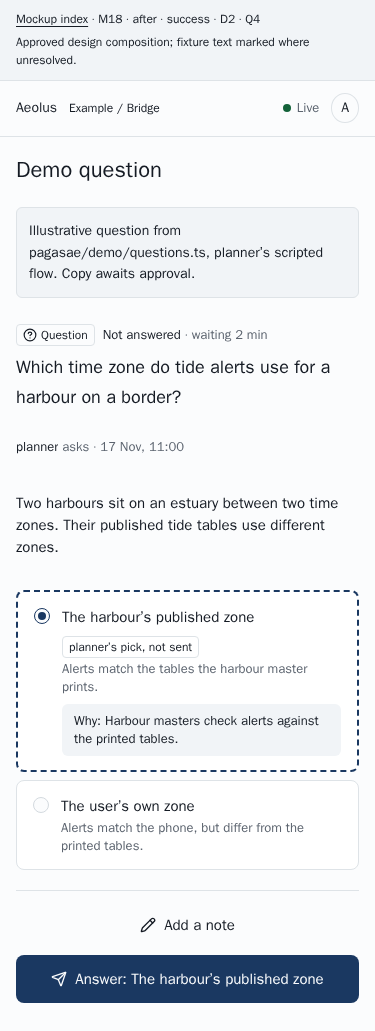
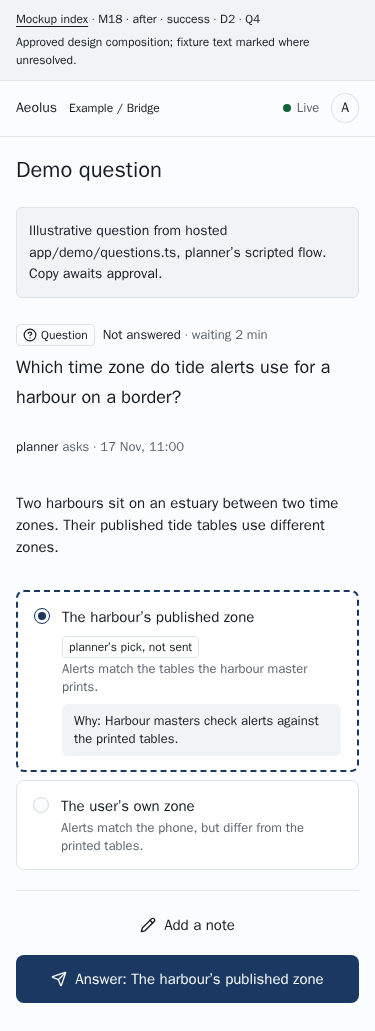
docs(onboarding): keep demo provenance generic in previews

Changed region(s): [[0.088, 0.2173, 0.8507, 0.2793]]

diff --git a/docs/design/hosted-onboarding/mockups/coverage.md b/docs/design/hosted-onboarding/mockups/coverage.md
@@ -44,7 +44,7 @@ Static documents, mail and the waiting-list notice have no runtime data empty/lo
 - Console chrome: `packages/console/components/organisms/{sidebar,top-bar,tab-bar}.tsx` with `packages/ui/src/organisms/app-header.tsx`, AppSwitcher and AvatarMenu. The console’s real brand assets are included.
 - Crew and source text: console `components/atoms/code-block.tsx`, `copy-button.tsx`, `components/molecules/crew-lines.tsx` and `live-status.tsx`.
 - Permissions: console `components/molecules/permission-choices.tsx`. Steering’s chosen rights are read, commission and manage, in addition to send/receive. This is a guide to manual commission, not a new preset.
-- Questions in M15 and M18: console `features/inbox/ui/organisms/question-reader.tsx`, with its existing desktop and phone variants. Q4 uses the planner’s time-zone question from [hosted app/demo/questions.ts](demo/questions.ts). Its answer and subsequent scripted report are illustrative. No new question interaction is designed here.
+- Questions in M15 and M18: console `features/inbox/ui/organisms/question-reader.tsx`, with its existing desktop and phone variants. Q4 uses the planner’s time-zone question from the hosted demo’s `demo/questions.ts`. Its answer and subsequent scripted report are illustrative. No new question interaction is designed here.
 - Site, account and Bridge page bodies compose the shared parts to show the design. These are not imported pages from those other repositories. The overview uses the real `packages/ui/src/organisms/harbour.tsx` and its group/tile parts with fixture props. Timeline/exchange content composes shared parts; it does not implement a live data layer. Behaviour is [design sections 4-7](../README.md#4-the-paths); look follows [the design system](../../README.md).
 
 ## Numbered persona paths
